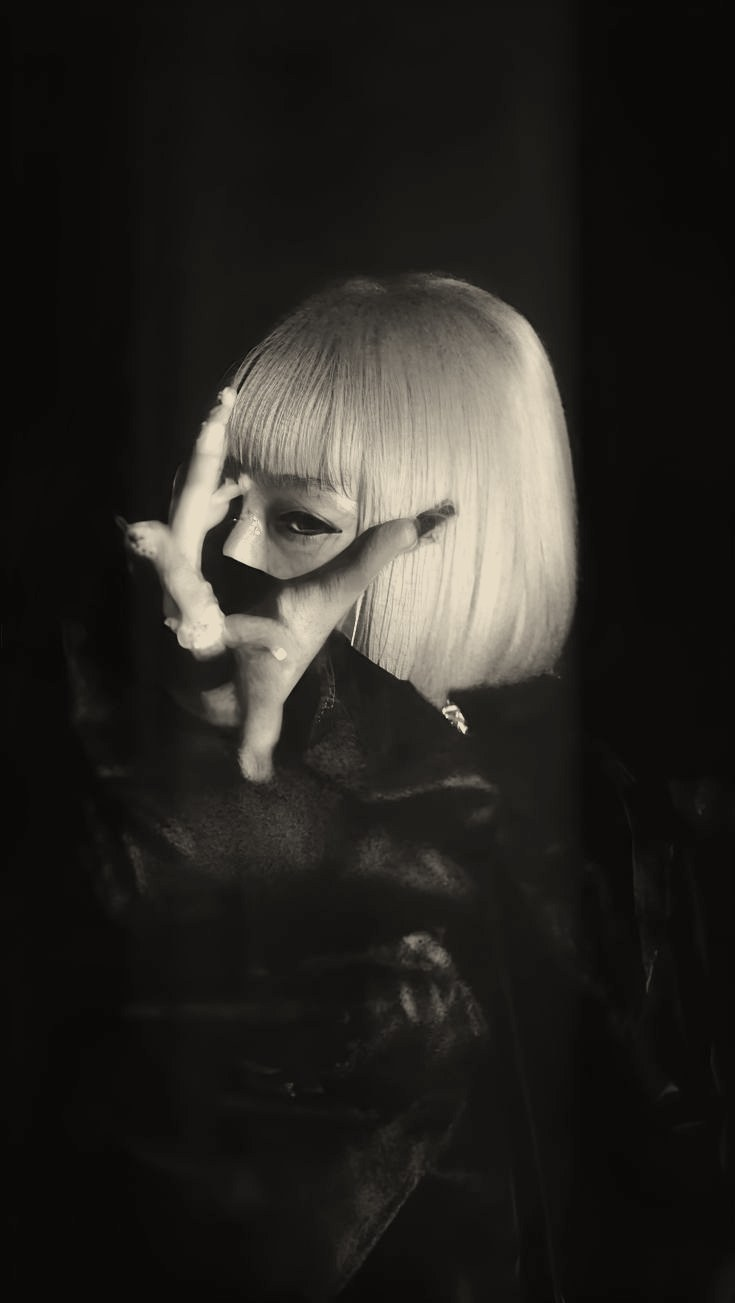
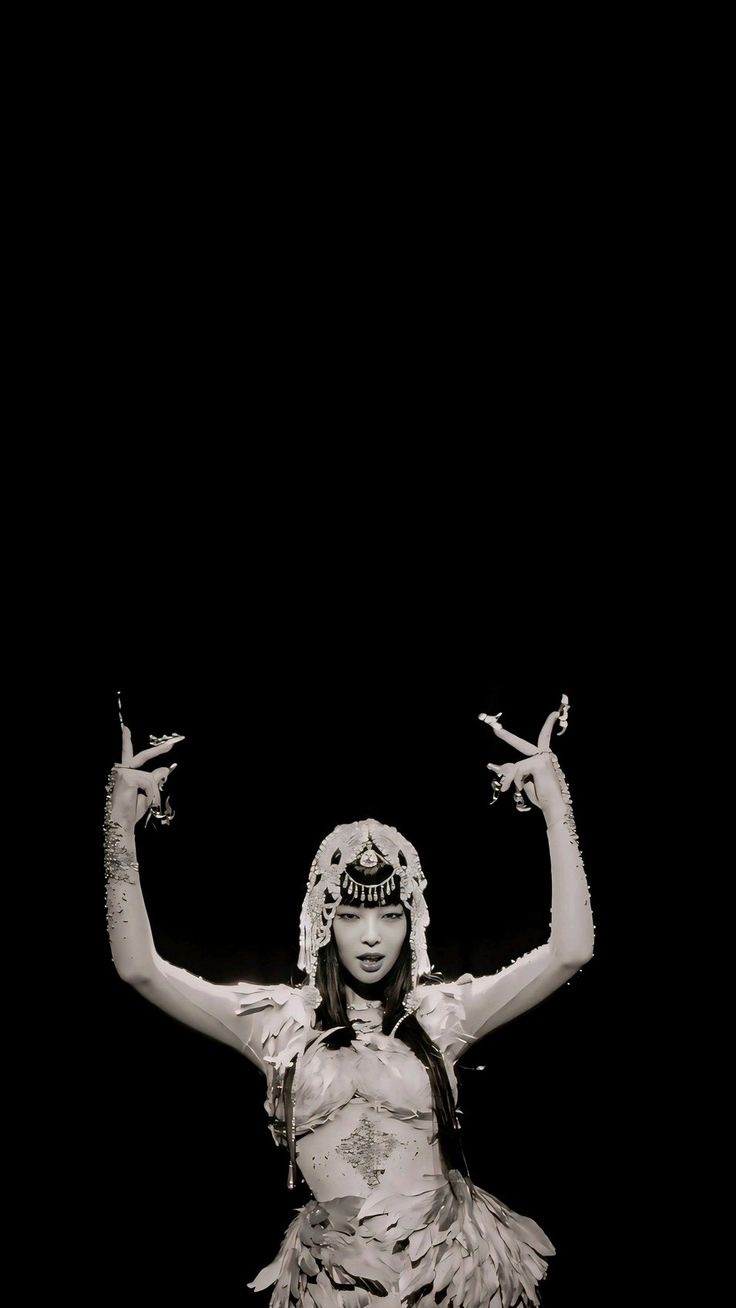
feat(frontend): footer de la tienda con la foto platino a la izquierda y la bailarina a la derecha

diff --git a/frontend/src/components/common/ShopFooter.jsx b/frontend/src/components/common/ShopFooter.jsx
@@ -1,5 +1,5 @@
 import { Link } from "react-router-dom";
-import shopPhoto from "../../assets/footer-shop.jpg";
+import shopPhoto from "../../assets/footer-shop-a.jpg";
 import shopPhotoB from "../../assets/footer-shop-b.jpg";
 import { COLLECTIONS } from "../../data/collections";
 import { SOCIAL_ICONS } from "../../data/socialLinks";
@@ -48,21 +48,22 @@ function ShopFooter() {
         opacity: "var(--footer-progress, 1)",
       }}
     >
-      {/* Dos fotos, una a cada lado: la silueta a la izquierda y la bailarina a la derecha. Se funden
+      {/* Dos fotos, una a cada lado: la del cabello platino a la izquierda y la bailarina a la derecha. Se funden
           con el fondo por el lado interior y por arriba y abajo. */}
       {[
         {
           src: shopPhoto,
           side: "left-0",
           fade: "to left",
-          position: "50% 20%",
+          position: "50% 40%",
+          zoom: "origin-[50%_40%] scale-[1.35]",
         },
         {
           src: shopPhotoB,
           side: "right-0",
           fade: "to right",
-          position: "50% 40%",
-          zoom: "origin-[50%_40%] scale-[1.35]",
+          position: "50% 100%",
+          zoom: "origin-bottom scale-[1.9]",
         },
       ].map((photo) => (
         <div
